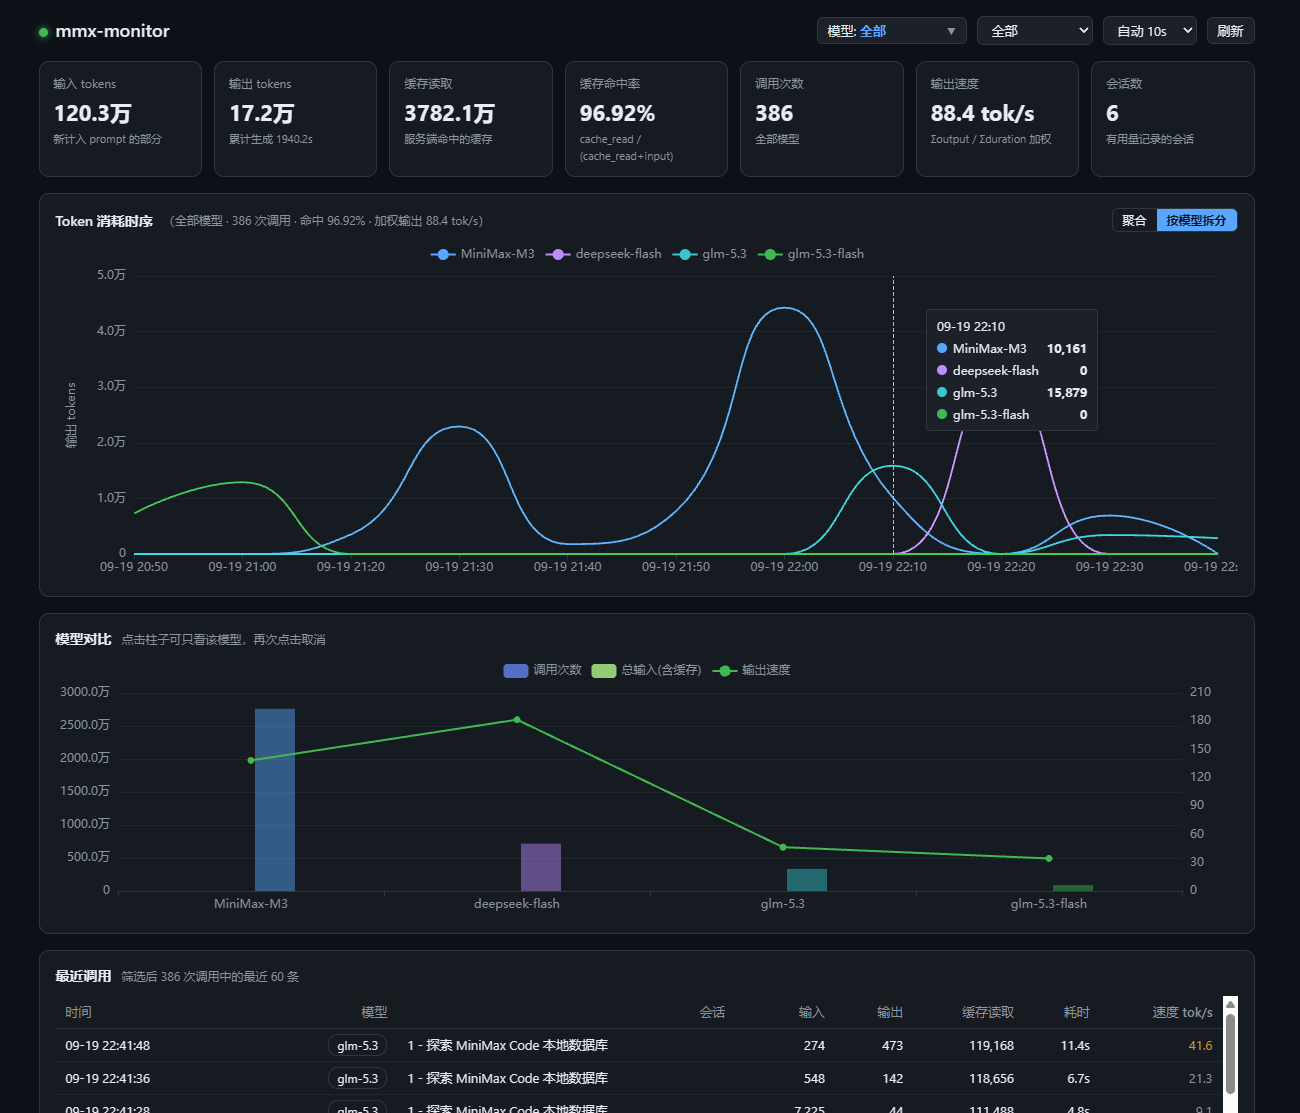
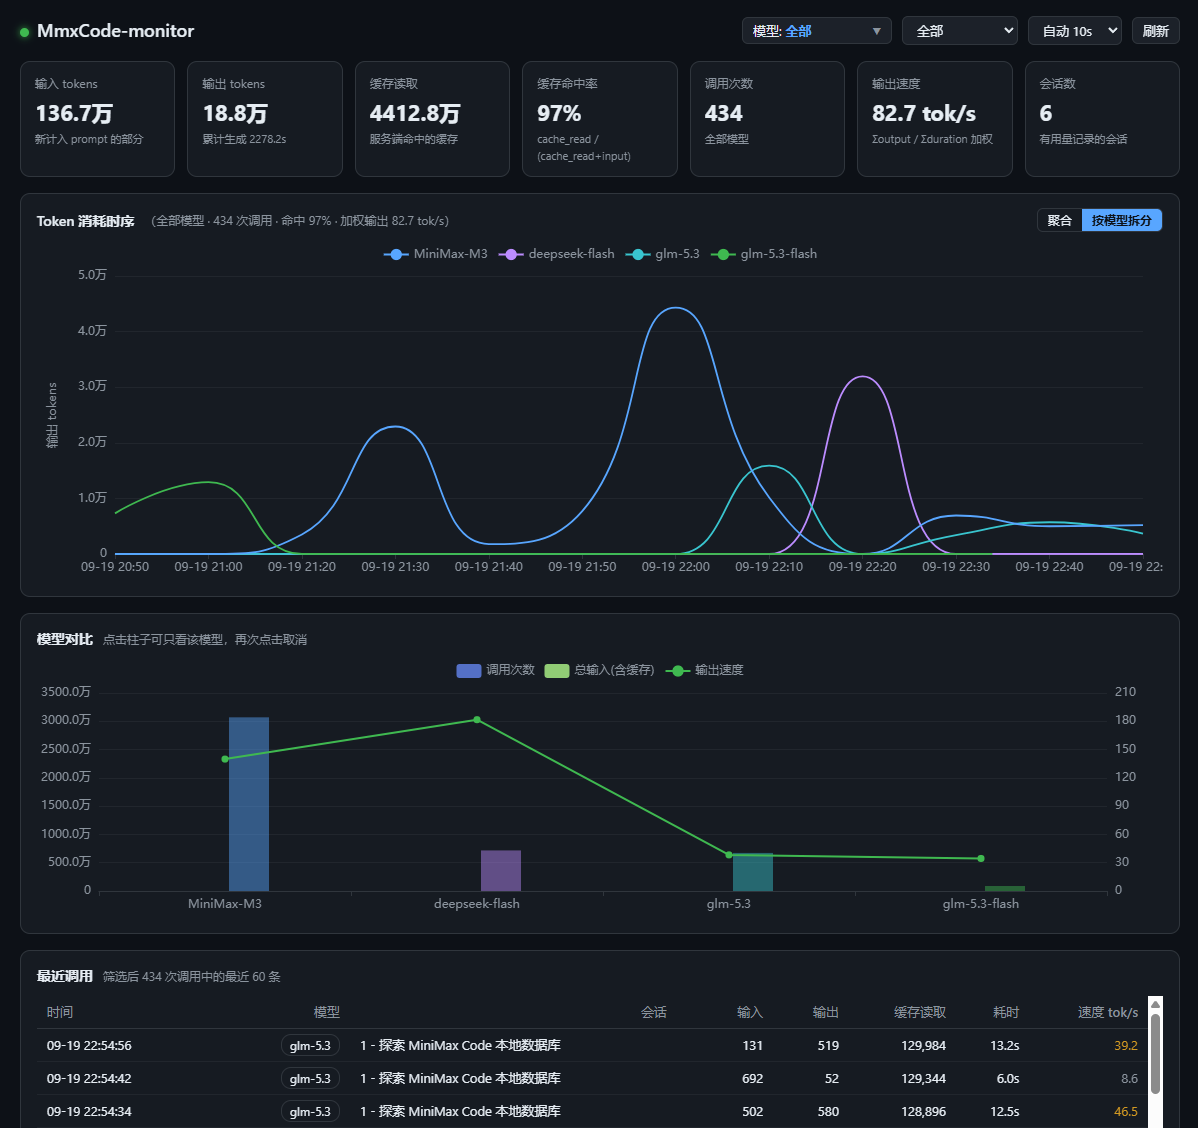
rename: mmx-monitor -> MmxCode-monitor，更新预览图
- 项目名与软件缩写对齐：README 标题/clone 地址/项目结构、
  monitor.py 入口标识、index.html 页面标题与页头
- git remote 指向新仓库名 yanhy2000/MmxCode-monitor
- img/ui.png 更新为当前版本界面截图(1280x720)

diff --git a/static/index.html b/static/index.html
@@ -3,7 +3,7 @@
 <head>
 <meta charset="utf-8">
 <meta name="viewport" content="width=device-width, initial-scale=1">
-<title>mmx-monitor · MiniMax Code 用量监控</title>
+<title>MmxCode-monitor · MiniMax Code 用量监控</title>
 <script src="/echarts.min.js"
         onerror="var s=document.createElement('script');s.src='https://registry.npmmirror.com/echarts/5.5.1/files/dist/echarts.min.js';s.onerror=function(){document.getElementById('app').innerHTML='<div class=\'err\'>ECharts 加载失败（本地与 CDN 均不可用）</div>'};document.head.appendChild(s)"></script>
 <style>
@@ -104,7 +104,7 @@ footer{color:var(--muted);font-size:12px;text-align:center;margin-top:8px}
 <body>
 <div id="app">
 <header>
-  <h1><span class="dot"></span>mmx-monitor</h1>
+  <h1><span class="dot"></span>MmxCode-monitor</h1>
   <span class="sub" id="dbinfo"></span>
   <div class="spacer"></div>
 

diff --git a/monitor.py b/monitor.py
@@ -1,5 +1,5 @@
 #!/usr/bin/env python3
-"""mmx-monitor — MiniMax Code 本地 token 用量监控台。
+"""MmxCode-monitor — MiniMax Code 本地 token 用量监控台。
 
 零第三方依赖（仅 Python 标准库）。
 数据源: <DATA_DIR>/v2/sqlite/runtime-state.sqlite
@@ -59,7 +59,7 @@ def open_snapshot(db_path: Path) -> sqlite3.Connection:
         src.close()
         return dst
     except sqlite3.Error:
-        tmpdir = Path(tempfile.mkdtemp(prefix="mmx-monitor-"))
+        tmpdir = Path(tempfile.mkdtemp(prefix="MmxCode-monitor-"))
         try:
             base = tmpdir / "snap.db"
             shutil.copy2(db_path, base)
@@ -313,7 +313,7 @@ MIME = {".html": "text/html; charset=utf-8",
 
 class Handler(BaseHTTPRequestHandler):
     db_path: Path = None  # 类属性注入
-    server_version = "mmx-monitor/0.1"
+    server_version = "MmxCode-monitor/0.1"
 
     def log_message(self, fmt, *args):  # 安静些
         sys.stderr.write("[%s] %s\n" % (time.strftime("%H:%M:%S"), fmt % args))
@@ -405,7 +405,7 @@ def main():
     Handler.db_path = db
 
     url = f"http://{args.host}:{port}/"
-    print(f"mmx-monitor serving on {url}  (db: {db})")
+    print(f"MmxCode-monitor serving on {url}  (db: {db})")
     print("press Ctrl+C to stop")
     if not args.no_browser:
         threading.Timer(0.5, lambda: webbrowser.open(url)).start()
